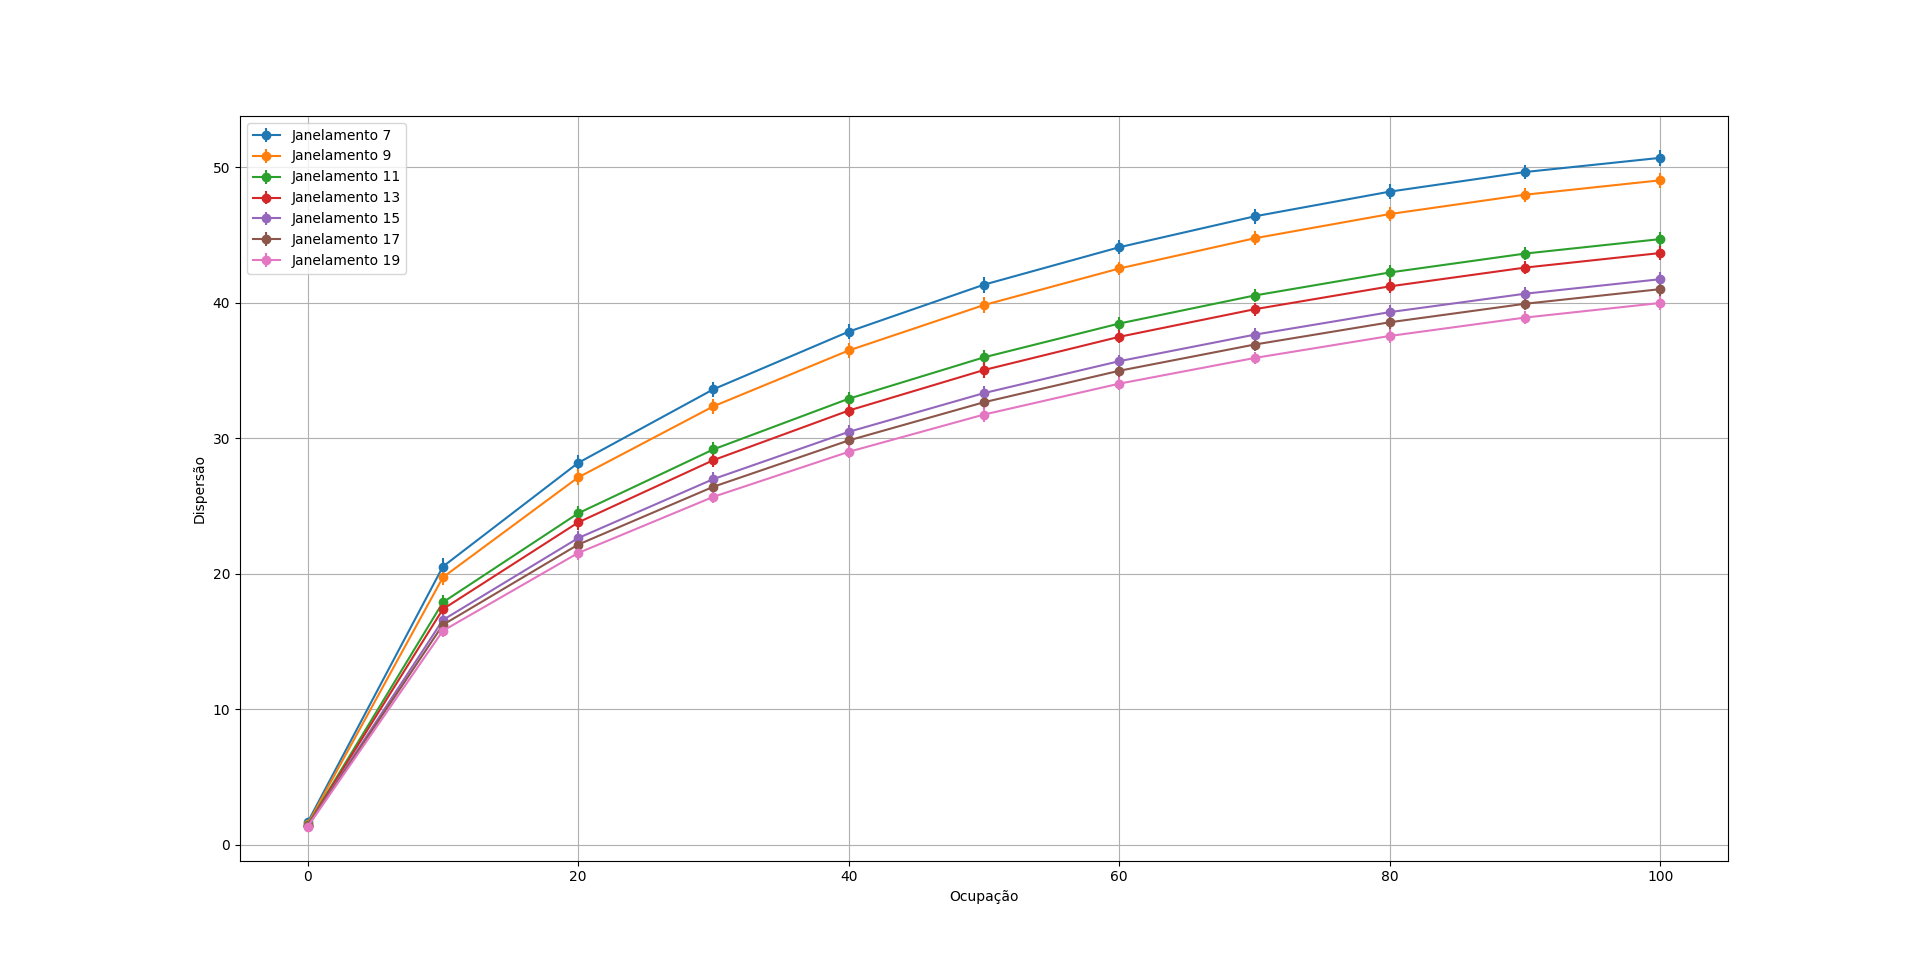
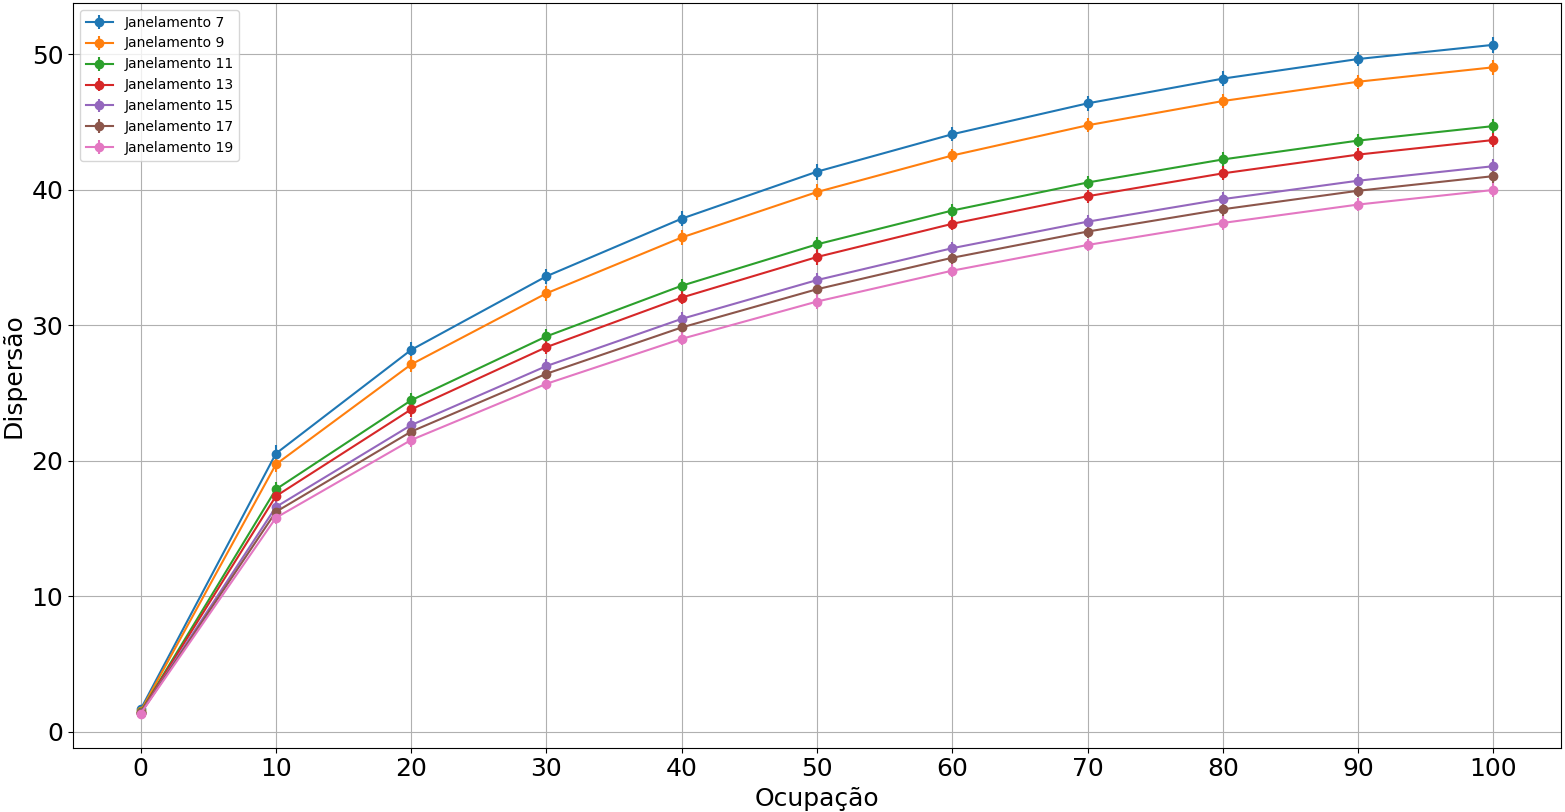
Retira o pedestal das amostras do sinal

diff --git a/FiltroOtimoContinuo/loopGerarDadosKFold.py b/FiltroOtimoContinuo/loopGerarDadosKFold.py
@@ -45,10 +45,10 @@ for d in range(len(n_janelamento)):
 
         #################################### LER AS AMOSTRAS E AS AMPLITUDES ASSOCIADAS DE ACORDO COM O JANELAMENTO ###################################################################
 
-        # nome_arquivo_amostras = "C:/Users/diogo/Desktop/Diogo(Estudos)/Mestrado/TEMC-Processamento-Avan-ado-de-Dados-para-Calorimetria-de-Altas-Energias1/FiltroOtimoContinuo/Dados_Ocupacoes/OC_"+str(ocupacao[f])+".txt"
+        nome_arquivo_amostras = "C:/Users/diogo/Desktop/Diogo(Estudos)/Mestrado/TEMC-Processamento-Avan-ado-de-Dados-para-Calorimetria-de-Altas-Energias1/FiltroOtimoContinuo/Dados_Ocupacoes/OC_"+str(ocupacao[f])+".txt"
 
         # notebook
-        nome_arquivo_amostras = "C:/Users/diogo/OneDrive/Área de Trabalho/TEMC-Processamento-Avan-ado-de-Dados-para-Calorimetria-de-Altas-Energias11/FiltroOtimoContinuo/Dados_Ocupacoes/OC_"+str(ocupacao[f])+".txt"
+        # nome_arquivo_amostras = "C:/Users/diogo/OneDrive/Área de Trabalho/TEMC-Processamento-Avan-ado-de-Dados-para-Calorimetria-de-Altas-Energias11/FiltroOtimoContinuo/Dados_Ocupacoes/OC_"+str(ocupacao[f])+".txt"
 
         def montarMatrizSinaisEAmplitude(nome_arquivo_amostras, n_janelamento):
             dados_amostras = np.genfromtxt(nome_arquivo_amostras, delimiter=",", skip_header=1)
@@ -63,7 +63,7 @@ for d in range(len(n_janelamento)):
             for i in range(num_linhas):
                 inicio = i  # começa no ponto atual
                 fim = i + n_janelamento  # vai até o ponto atual + n_janelamento
-                matriz_amostras[i] = dados_amostras[inicio:fim, 1]  # salva a linha na matriz
+                matriz_amostras[i] = dados_amostras[inicio:fim, 1] - pedestal # salva a linha na matriz
 
             # Calcular o índice do valor central em cada linha
             indice_central = n_janelamento // 2
@@ -145,12 +145,12 @@ for d in range(len(n_janelamento)):
         # print("Vetor de pesos:\n", w)
         # print("Soma vetor pesos: ", sum(w))
 
-        def estimarAmplitude(matriz_amostras, pedestal, pesos):
+        def estimarAmplitude(matriz_amostras, pesos):
             amplitude_estimada = []
             for i in range(len(matriz_amostras)):  # para cada linha
                 soma = 0
                 for j in range(len(pesos)):  # para cada coluna
-                    multiplicacao = (matriz_amostras[i][j] - pedestal) * pesos[j]
+                    multiplicacao = (matriz_amostras[i][j]) * pesos[j]
                     soma += multiplicacao
                 amplitude_estimada.append(soma)
             return amplitude_estimada
@@ -159,7 +159,7 @@ for d in range(len(n_janelamento)):
         # Supondo que você já tenha matriz_Ocupacao_Amostras, pedestal e w
 
         # Calcular amplitude estimada
-        amplitude_estimada = estimarAmplitude(matriz_amostras, pedestal, w)
+        amplitude_estimada = estimarAmplitude(matriz_amostras, w)
 
         # print("Amplitude estimada: \n", amplitude_estimada)
         # print("Tamanho amplitude estimada:", len(amplitude_estimada))
@@ -189,7 +189,7 @@ for d in range(len(n_janelamento)):
                 print(solucao_sistemaKFold)
             erroEstimacaoKFold = []
             
-            amplitude_estimadaTeste = estimarAmplitude(matrizAmostrasTeste, pedestal, w_kfold)
+            amplitude_estimadaTeste = estimarAmplitude(matrizAmostrasTeste, w_kfold)
             for k in range(len(amplitude_estimadaTeste)):
                 erroEstimacaoKFold.append(amplitude_estimadaTeste[k]- amplitudeAmostrasTestes[k])
                 
@@ -208,11 +208,11 @@ for d in range(len(n_janelamento)):
 
         ################## SALVAR OS DADOS PARA O ARQUIVO REFERENTE AO KFOLD PARA MEDIA DA MEDIA E DESVIO PADRAO DO DESVIO PADRAO ##################
         # Caminho do arquivo de saída
-        # caminho_arquivo_mediaDaMedia = "C:/Users/diogo/Desktop/Diogo(Estudos)/Mestrado/TEMC-Processamento-Avan-ado-de-Dados-para-Calorimetria-de-Altas-Energias1/FiltroOtimoContinuo/Dados/MediaDaMedia.txt"
+        caminho_arquivo_mediaDaMedia = "C:/Users/diogo/Desktop/Diogo(Estudos)/Mestrado/TEMC-Processamento-Avan-ado-de-Dados-para-Calorimetria-de-Altas-Energias1/FiltroOtimoContinuo/Dados/MediaDaMedia.txt"
 
 
         # notebook
-        caminho_arquivo_mediaDaMedia= "C:/Users/diogo/OneDrive/Área de Trabalho/TEMC-Processamento-Avan-ado-de-Dados-para-Calorimetria-de-Altas-Energias1/FiltroOtimoContinuo/Dados/MediaDaMedia.txt"
+        # caminho_arquivo_mediaDaMedia= "C:/Users/diogo/OneDrive/Área de Trabalho/TEMC-Processamento-Avan-ado-de-Dados-para-Calorimetria-de-Altas-Energias1/FiltroOtimoContinuo/Dados/MediaDaMedia.txt"
         def atualizar_arquivo_media(caminho_arquivo_mediaDaMedia,n_janelamento, ocupacao, mediaDaMedia,desvioPadraoDoDesvioPadrao, mediaDesvioPadraoKFold):
             titulos = ["Janelamento", "Ocupacao", "MediaDaMedia", "DesvioPadraoDoDesvioPadrao", "MediaDesvioPadrao"]
 

diff --git a/FiltroOtimoContinuo/FiltroOtimoContinuoKFold.py b/FiltroOtimoContinuo/FiltroOtimoContinuoKFold.py
@@ -6,7 +6,7 @@ from sklearn.model_selection import KFold
 
 # Número do janelamento desejado
 n_janelamento = 7
-pedestal = 0
+pedestal = 30
 ocupacao = 50
 
 ############################################### CARREGAR INFORMAÇÕES DO PULSO DE REFERÊNCIA E SUA DERIVADA ##################################################
@@ -61,7 +61,7 @@ def montarMatrizSinaisEAmplitude(nome_arquivo_amostras, n_janelamento):
     for i in range(num_linhas):
         inicio = i  # começa no ponto atual
         fim = i + n_janelamento  # vai até o ponto atual + n_janelamento
-        matriz_amostras[i] = dados_amostras[inicio:fim, 1]-30  # salva a linha na matriz
+        matriz_amostras[i] = dados_amostras[inicio:fim, 1] - pedestal  # salva a linha na matriz
 
     # Calcular o índice do valor central em cada linha
     indice_central = n_janelamento // 2
@@ -78,15 +78,15 @@ def montarMatrizSinaisEAmplitude(nome_arquivo_amostras, n_janelamento):
 matriz_amostras, amplitude_real = montarMatrizSinaisEAmplitude(nome_arquivo_amostras, n_janelamento)
 
 
-np.savetxt("C:/Users/diogo/Desktop/Diogo(Estudos)/Mestrado/TEMC-Processamento-Avan-ado-de-Dados-para-Calorimetria-de-Altas-Energias1/FiltroOtimoContinuo/SinaisJanelados/sinaisJaneladosSemPedestal.txt", matriz_amostras, fmt="%.4f")
-np.savetxt("C:/Users/diogo/Desktop/Diogo(Estudos)/Mestrado/TEMC-Processamento-Avan-ado-de-Dados-para-Calorimetria-de-Altas-Energias1/FiltroOtimoContinuo/SinaisJanelados/amplitudesJaneladas.txt", amplitude_real, fmt="%.4f")
+# np.savetxt("C:/Users/diogo/Desktop/Diogo(Estudos)/Mestrado/TEMC-Processamento-Avan-ado-de-Dados-para-Calorimetria-de-Altas-Energias1/FiltroOtimoContinuo/SinaisJanelados/sinaisJaneladosSemPedestal.txt", matriz_amostras, fmt="%.4f")
+# np.savetxt("C:/Users/diogo/Desktop/Diogo(Estudos)/Mestrado/TEMC-Processamento-Avan-ado-de-Dados-para-Calorimetria-de-Altas-Energias1/FiltroOtimoContinuo/SinaisJanelados/amplitudesJaneladas.txt", amplitude_real, fmt="%.4f")
 
 #notebook
 # np.savetxt("C:/Users/diogo/OneDrive/Área de Trabalho/TEMC-Processamento-Avan-ado-de-Dados-para-Calorimetria-de-Altas-Energias1/FiltroOtimoContinuo/sinaisJanelados.txt", matriz_amostras, fmt= "%.4f")
 # np.savetxt( "C:/Users/diogo/OneDrive/Área de Trabalho/TEMC-Processamento-Avan-ado-de-Dados-para-Calorimetria-de-Altas-Energias1/FiltroOtimoContinuo/amplitudesJaneladas.txt", amplitude_real , fmt= "%.4f")
 
-print("Matriz Amostras: \n", matriz_amostras)
-print("Amplitude real: \n", amplitude_real)
+# print("Matriz Amostras: \n", matriz_amostras)
+# print("Amplitude real: \n", amplitude_real)
 
 # primeiracoluna = matriz_amostras[:,0]
 # segundacoluna = matriz_amostras[:,1]
@@ -200,12 +200,12 @@ else:
 # print("Vetor de pesos:\n", w)
 # print("Soma vetor pesos: ", sum(w))
 
-def estimarAmplitude(matriz_amostras, pedestal, pesos):
+def estimarAmplitude(matriz_amostras, pesos):
     amplitude_estimada = []
     for i in range(len(matriz_amostras)):  # para cada linha
         soma = 0
         for j in range(len(pesos)):  # para cada coluna
-            multiplicacao = (matriz_amostras[i][j] - pedestal) * pesos[j]
+            multiplicacao = (matriz_amostras[i][j]) * pesos[j]
             soma += multiplicacao
         amplitude_estimada.append(soma)
     return amplitude_estimada
@@ -214,7 +214,7 @@ def estimarAmplitude(matriz_amostras, pedestal, pesos):
 # Supondo que você já tenha matriz_Ocupacao_Amostras, pedestal e w
 
 # Calcular amplitude estimada sem o k fold (tamanho total do conjunto de amostras da amplitude)
-amplitude_estimada = estimarAmplitude(matriz_amostras, pedestal, w)
+amplitude_estimada = estimarAmplitude(matriz_amostras, w)
 
 # print("Amplitude estimada: \n", amplitude_estimada)
 # print("Tamanho amplitude estimada:", len(amplitude_estimada))
@@ -244,7 +244,7 @@ for fold, (train_index, test_index) in enumerate(kf.split(matriz_amostras)):
         print(solucao_sistemaKFold)
     erroEstimacaoKFold = []
 
-    amplitude_estimadaTeste = estimarAmplitude(matrizAmostrasTeste, pedestal, w_kfold)
+    amplitude_estimadaTeste = estimarAmplitude(matrizAmostrasTeste, w_kfold)
     for k in range(len(amplitude_estimadaTeste)):
         erroEstimacaoKFold.append(amplitude_estimadaTeste[k]- amplitudeAmostrasTestes[k])
 

diff --git a/FiltroOtimoContinuo/plotHistogramaErro.py b/FiltroOtimoContinuo/plotHistogramaErro.py
@@ -4,15 +4,15 @@ import matplotlib.pyplot as plt
 from sklearn.model_selection import KFold
 
 pedestal = 30
-n_janelamento = [7, 9, 11, 13, 15, 17, 19]
-ocupacao = [0,10,20, 30, 40, 50, 60, 70, 80, 90, 100]
+n_janelamento = [ 19]
+ocupacao = [40]
 
-def estimarAmplitude(matriz_amostras, pedestal, pesos):
+def estimarAmplitude(matriz_amostras, pesos):
     amplitude_estimada = []
     for i in range(len(matriz_amostras)):  # para cada linha
         soma = 0
         for j in range(len(pesos)):  # para cada coluna
-            multiplicacao = (matriz_amostras[i][j] - pedestal) * pesos[j]
+            multiplicacao = (matriz_amostras[i][j]) * pesos[j]
             soma += multiplicacao
         amplitude_estimada.append(soma)
     return amplitude_estimada
@@ -72,7 +72,7 @@ for f in range(len(ocupacao)):
             for i in range(num_linhas):
                 inicio = i  # começa no ponto atual
                 fim = i + n_janelamento  # vai até o ponto atual + n_janelamento
-                matriz_amostras[i] = dados_amostras[inicio:fim, 1]  # salva a linha na matriz
+                matriz_amostras[i] = dados_amostras[inicio:fim, 1]-pedestal  # salva a linha na matriz
 
             # Calcular o índice do valor central em cada linha
             indice_central = n_janelamento // 2
@@ -159,7 +159,7 @@ for f in range(len(ocupacao)):
                 print(solucao_sistemaKFold)
 
             # Calcular amplitude estimada para o conjunto de teste
-            amplitude_estimadaTeste = estimarAmplitude(matrizAmostrasTeste, pedestal, w_kfold)
+            amplitude_estimadaTeste = estimarAmplitude(matrizAmostrasTeste, w_kfold)
 
             # Calcular erro de estimativa para o conjunto de teste e armazenar na lista
             for k in range(len(amplitude_estimadaTeste)):
@@ -168,15 +168,19 @@ for f in range(len(ocupacao)):
             desvioPadraoKfold.append(np.std(erroEstimacaoKFold))
 
         # Plotar o histograma apenas para o valor atual de janelamento
-        plt.hist(erroEstimacaoKFold, bins=50, alpha=0.7, histtype='step', label=f"Janelamento: {n_janelamento[d]} ($\mu$= {mediaKfold[-1]:.3f},$\sigma$={desvioPadraoKfold[-1]:.3f} )")
+        # plt.hist(erroEstimacaoKFold, bins=50, alpha=0.7, histtype='step', label=f"Janelamento: {n_janelamento[d]} ($\mu$= {mediaKfold[-1]:.3f},$\sigma$={desvioPadraoKfold[-1]:.3f} )")
+        plt.hist(erroEstimacaoKFold, bins=150, alpha=0.7, color='purple', edgecolor='black', label=f"Janelamento: {n_janelamento[d]} ($\mu$= {mediaKfold[-1]:.3f}, $\sigma$={desvioPadraoKfold[-1]:.3f})")
         # print("Janelamento:", n_janelamento[d])
         # print("Ocupacao:", ocupacao[f])
         # print("Erro estimacao: \n", erroEstimacaoKFold)
 
-    plt.xlabel("Erro Estimação")
-    plt.ylabel("Frequência")
-    plt.title("Ocupação: " + str(ocupacao[f]))
+    plt.xlabel("Erro de estimação",fontsize=18)
+    plt.xlim(-300, 200)
+    plt.ylabel("Frequência",fontsize=18)
+    plt.xticks(range(-300, 201, 50), fontsize=18)
+    plt.title("Histograma do erro de estimação para "+ str(ocupacao[f])+ "% de ocupação" , fontsize=20)
     plt.legend(loc=0)
+    plt.grid(True)
     plt.show()
 
     # Cálculo da média das médias e do desvio padrão dos desvios padrão para toda a ocupação

diff --git a/FiltroOtimoContinuo/plotsFiltroOtimoContinuo.py b/FiltroOtimoContinuo/plotsFiltroOtimoContinuo.py
@@ -122,7 +122,7 @@ def PlotPesos(ocupacoes_desejadas):
 
 ocupacoes_desejadas = [0,10,20, 30,40,50,60,70,80,90,100] #lista de ocupacoes para teste
 # PlotDispersao(ocupacoes_desejadas)
-PlotMatrizCov(ocupacoes_desejadas)
+# PlotMatrizCov(ocupacoes_desejadas)
 # PlotPesos(ocupacoes_desejadas)
 
 ###################################################################### PLOTS PARA MEDIA DA MEDIA #####################################################
@@ -165,12 +165,14 @@ def ler_dados_por_janelamento(caminho_arquivo):
             partes = linha.split()
             janelamento = int(partes[0])
             ocupacao = int(partes[1])
+            media_media = float(partes[2].replace(',', ''))
             desvio_padrao_do_desvio_padrao = float(partes[3].replace(',', ''))
             media_do_desvio_padrao = float(partes[4].replace(',', ''))
             if janelamento not in dados:
-                dados[janelamento] = {'ocupacoes': [], 'medias': [], 'desvios': []}
+                dados[janelamento] = {'ocupacoes': [], 'mediaDaMedia': [],'mediaDesvioPadrao': [], 'desvios': []}
+            dados[janelamento]['mediaDaMedia'].append(media_media)
             dados[janelamento]['ocupacoes'].append(ocupacao)
-            dados[janelamento]['medias'].append(media_do_desvio_padrao)
+            dados[janelamento]['mediaDesvioPadrao'].append(media_do_desvio_padrao)
             # Aplicar o módulo ao desvio padrão do desvio padrão
             desvio_padrao_do_desvio_padrao = abs(desvio_padrao_do_desvio_padrao)
             dados[janelamento]['desvios'].append(desvio_padrao_do_desvio_padrao)
@@ -208,11 +210,29 @@ def plotarMediaDesvioPadrao(dados):
 def plotDispersao(dados):
     for janelamento, info in dados.items():
         ocupacoes = info['ocupacoes']
-        medias = info['medias']
+        medias = info['mediaDesvioPadrao']
         desvios = info['desvios']
         plt.errorbar(ocupacoes, medias, yerr=desvios, fmt='-o', label=f'Janelamento {janelamento}')
-    plt.xlabel('Ocupação')
-    plt.ylabel('Dispersão')
+    plt.xlabel('Ocupação', fontsize=18)
+    plt.ylabel('Dispersão', fontsize=18)
+    plt.xticks(range(0, 101, 10), fontsize=18)
+    plt.yticks(fontsize=18)  # Define o tamanho da fonte para os rótulos do eixo Y
+    plt.legend(loc=0)
+    plt.grid(True)
+    plt.show()
+
+
+def plotarMediaJanelamento(dados):
+    for janelamento, info in dados.items():
+        ocupacoes = info['ocupacoes']
+        medias = info['mediaDaMedia']
+        desvios = info['desvios']
+        if janelamento==19:
+            plt.errorbar(ocupacoes, medias, yerr=desvios, fmt='-o', label = "Janelamento: "+str(janelamento), color='purple')
+    plt.xlabel('Ocupação', fontsize=18)
+    plt.ylabel('Média do erro de estimação (ADC Count)', fontsize=18)
+    plt.xticks(range(0, 101, 10), fontsize=18)
+    plt.yticks(fontsize=18)  # Define o tamanho da fonte para os rótulos do eixo Y
     plt.legend(loc=0)
     plt.grid(True)
     plt.show()
@@ -232,3 +252,4 @@ plotarMediaDesvioPadrao(dadosParaCadaOcupacao)
 #Dispersao por ocupação para todos os janelamentos
 dadosParaCadaJanelamento = ler_dados_por_janelamento(caminho_arquivo_dados)
 plotDispersao(dadosParaCadaJanelamento)
+plotarMediaJanelamento(dadosParaCadaJanelamento)
